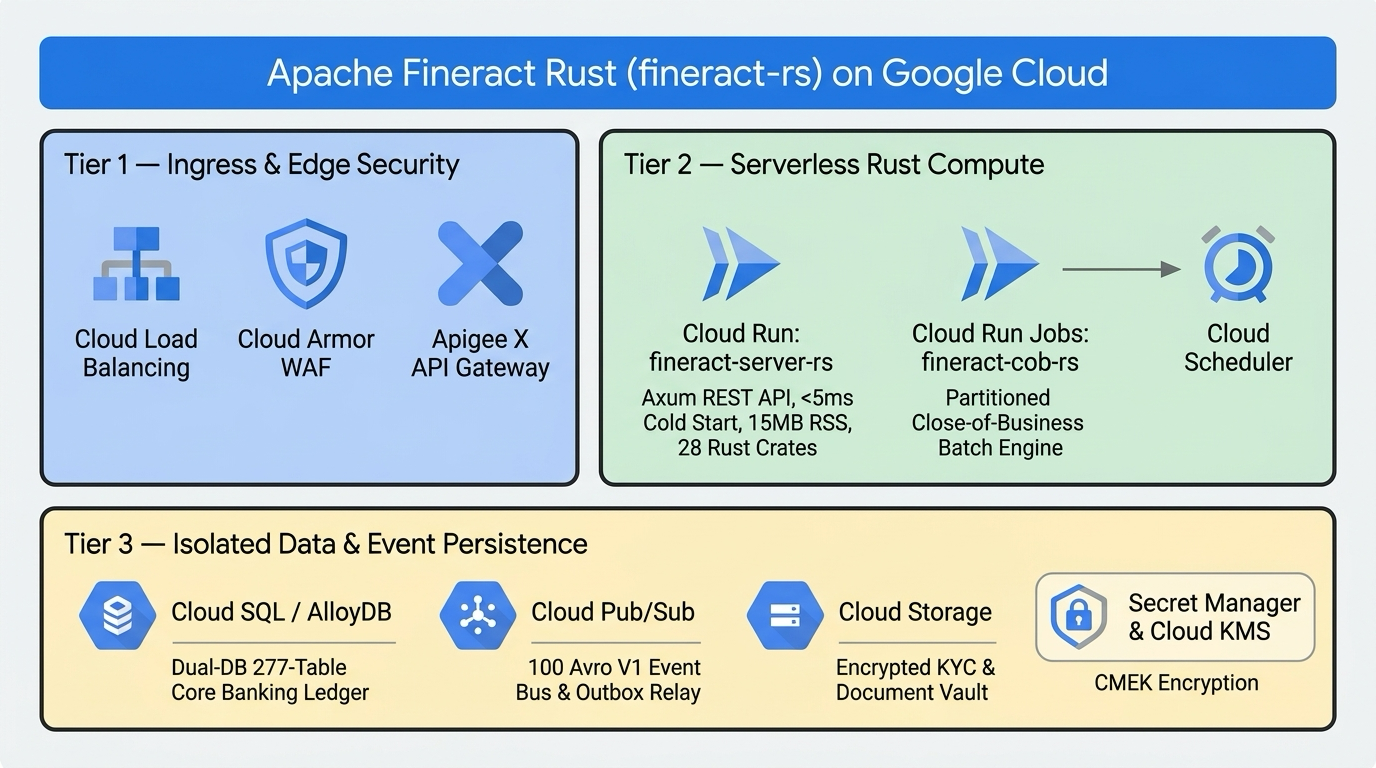
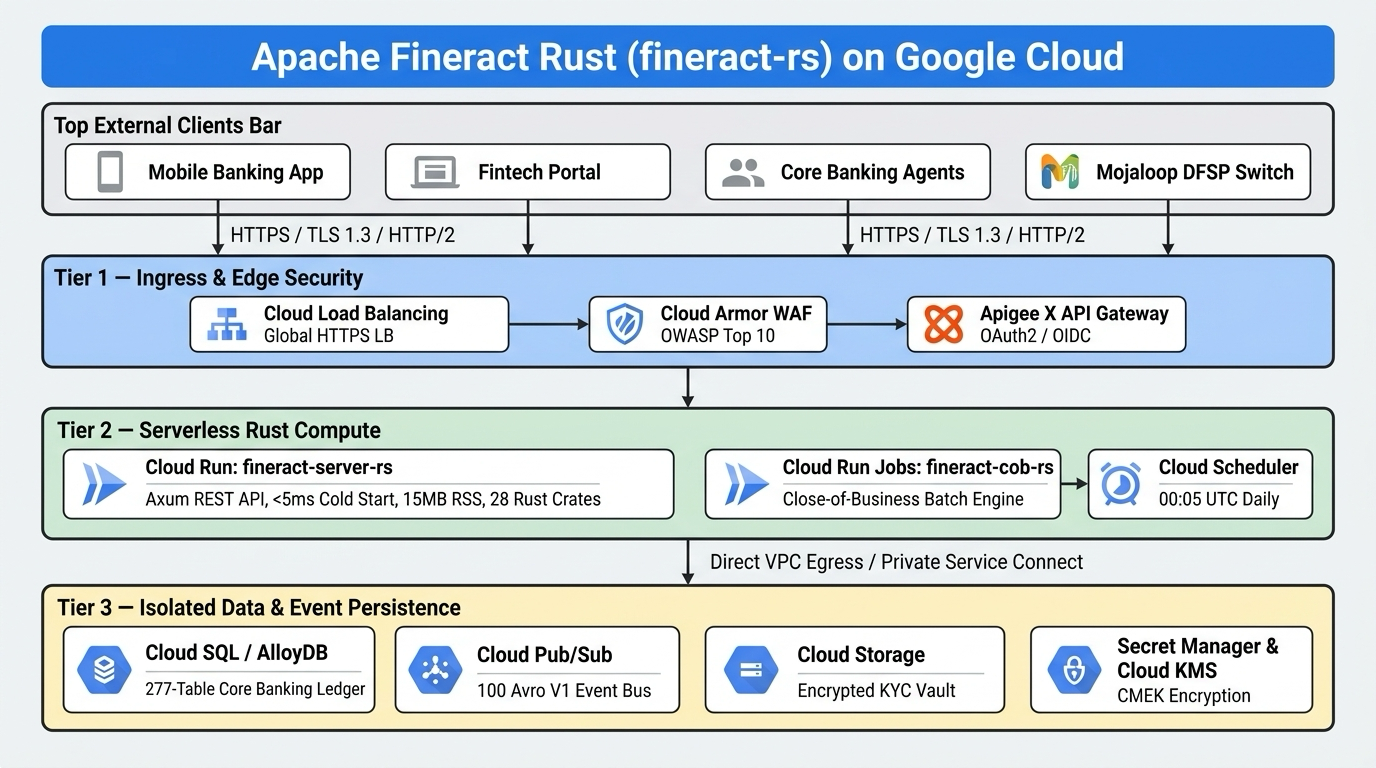
docs: update GCP architecture diagram with External Clients & flow arrows, remove ASCII wireframe, retain only Gemini 4 Argon

diff --git a/README.md b/README.md
@@ -4,7 +4,7 @@ A complete, memory-safe, zero-unsafe **Rust (Edition 2021 / 2024 compatible)** m
 
 > [!IMPORTANT]
 > **Proof of Concept (PoC) Disclaimer & Evaluative Nature**  
-> `fineract-rs` is an experimental architectural Proof of Concept (PoC) created in **Google Antigravity** to evaluate and demonstrate the long-context reasoning (1M-token context window), interactive `/plan` blueprinting, `/goal` autonomous execution, static dependency-graph context packing, and 8-lane `invoke_subagent` Long Decode code-synthesis capabilities of **Gemini 4 Argon** and **Gemini Pro** on a real-world enterprise core banking codebase.
+> `fineract-rs` is an experimental architectural Proof of Concept (PoC) created in **Google Antigravity** to evaluate and demonstrate the long-context reasoning (1M-token context window), interactive `/plan` blueprinting, `/goal` autonomous execution, static dependency-graph context packing, and 8-lane `invoke_subagent` Long Decode code-synthesis capabilities of **Gemini 4 Argon** on a real-world enterprise core banking codebase.
 >
 > **This software is experimental, is NOT production-ready, and is provided "as is" under the MIT License without warranty of any kind.**  
 > While the core financial algorithms, fixed-point `Money` arithmetic (all 8 IEEE 754 / `java.math.RoundingMode` strategies), progressive loan EMI schedules, daily/average-daily savings interest engines, Dual-DB SQL placeholder rewriters (`PostgreSQL` `$1..$N` ↔ `MySQL/MariaDB` `?`), and double-entry general ledger invariants are modeled directly on Apache Fineract's domain specifications:
@@ -24,7 +24,7 @@ A complete, memory-safe, zero-unsafe **Rust (Edition 2021 / 2024 compatible)** m
 
 ### Role of Google Antigravity & Gemini 4 Argon (1M Context + Long Decode)
 
-This migration was planned, architected, and synthesized inside **Google Antigravity** (Google DeepMind's agentic AI coding platform) powered by **Gemini 4 Argon** and **Gemini Pro**, combining frontier long-context reasoning with Antigravity's built-in planning and multi-agent tools:
+This migration was planned, architected, and synthesized inside **Google Antigravity** (Google DeepMind's agentic AI coding platform) powered by **Gemini 4 Argon**, combining frontier long-context reasoning with Antigravity's built-in planning and multi-agent tools:
 
 - **Interactive `/plan` Workflow & Blueprint Artifact Gate**: Initiated via `/plan`, Antigravity audited all `7,134` Java files, `481` Liquibase XML changelogs, and `101` Avro schemas in `apache/fineract` and authored the 7-Wave Modernization Blueprint ([`docs/fineract_rust_modernization_plan.md`](docs/fineract_rust_modernization_plan.md)) with an interactive user approval gate (`RequestFeedback=true`) before writing code.
 - **Structured Architecture Alignment via `ask_question`**: Used Antigravity's `ask_question` tool to lock in key architectural decisions upfront: (1) Full 7-Wave workspace execution, (2) **Dual-Database Support (`PostgreSQL` + `MySQL/MariaDB`)** via runtime `DialectSql`, and (3) **8 Parallel Subagent Decode Lanes** per wave pod.
@@ -136,57 +136,6 @@ flowchart TD
 ## 4. Google Cloud Production Reference Architecture
 
 ![Google Cloud Production Reference Architecture](docs/architecture/fineract-rs-gcp-architecture.png)
-
-```
-┌────────────────────────────────────────────────────────────────────────────────────────────────────────┐
-│                  GOOGLE CLOUD PRODUCTION REFERENCE ARCHITECTURE BLUEPRINT                              │
-│                               Apache Fineract — Rust Edition (fineract-rs)                             │
-└────────────────────────────────────────────────────────────────────────────────────────────────────────┘
-
- ┌──────────────────────────────────────────────────────────────────────────────────────────────────────┐
- │ [1] INGRESS & EDGE SECURITY ZONE (Global Anycast Edge)                                               │
- │                                                                                                      │
- │   Mobile Banking App / Fintech Portal / Core Banking Agents / Mojaloop DFSP Switch                   │
- │                                             │ (HTTPS / TLS 1.3 / HTTP/2)                             │
- │                                             ▼                                                        │
- │   ┌──────────────────────────────────────────────────────────────────────────────────────────────┐   │
- │   │ Google Cloud Load Balancing (External Global HTTPS Load Balancer)                            │   │
- │   │   ├── Google Cloud Armor (WAF: OWASP Top 10, Geo-fencing, Layer-7 Rate Limiting)             │   │
- │   │   └── Apigee X API Gateway / Identity-Aware Proxy (OAuth2 / OIDC & Tenant Header Guard)      │   │
- │   └──────────────────────────────────────────────────────────────────────────────────────────────┘   │
- └───────────────────────────────────────────────────┬──────────────────────────────────────────────────┘
-                                                     │ (Private Internal Google Network Routing)
- ┌───────────────────────────────────────────────────▼──────────────────────────────────────────────────┐
- │ [2] HIGH-PERFORMANCE SERVERLESS COMPUTE LAYER (Cloud Run — Regional Direct VPC Egress)               │
- │                                                                                                      │
- │   ┌──────────────────────────────────────────────────────────────────────────────────────────────┐   │
- │   │ Google Cloud Run: [ fineract-server-rs ] (ReadWrite & ReadOnly API Pods)                     │   │
- │   │   ├── Distroless OCI Image: gcr.io/distroless/cc-debian12:nonroot (~25 MB compressed)        │   │
- │   │   ├── Runtime Characteristics: Cold Start < 5 ms | RSS Memory: ~15 MB | Tokio Async Pool     │   │
- │   │   ├── Endpoints: /fineract-provider/api/v1/* | /actuator/health | /v3/api-docs               │   │
- │   │   └── Zero-Copy 128-Bit Fixed-Point Financial Engine (fineract-money + progressive-loan-rs)  │   │
- │   └──────────────────────────────────────────────────────────────────────────────────────────────┘   │
- │                                                   ▲                                                  │
- │   ┌───────────────────────────────────────────────┴──────────────────────────────────────────────┐   │
- │   │ Google Cloud Run Jobs: [ fineract-cob-rs ] (Nightly Close-of-Business Partitioned Workers)   │   │
- │   │   ├── Triggered daily at 00:05 UTC by Google Cloud Scheduler via OIDC Service Account        │   │
- │   │   └── Partitioned Tokio Worker Pool + m_loan_account_locks + Transactional Outbox Relay      │   │
- │   └──────────────────────────────────────────────────────────────────────────────────────────────┘   │
- └───────────────────────────────────────────────────┬──────────────────────────────────────────────────┘
-                                                     │ (Direct VPC Egress / Private Service Connect)
- ┌───────────────────────────────────────────────────▼──────────────────────────────────────────────────┐
- │ [3] ISOLATED PERSISTENCE & MESSAGING ZONE (Private Service Connect / CMEK KMS Encrypted)             │
- │                                                                                                      │
- │   ┌───────────────────────────┐  ┌───────────────────────────┐  ┌────────────────────────────────┐   │
- │   │ Cloud SQL / AlloyDB       │  │ Google Cloud Pub/Sub      │  │ Google Cloud Storage (GCS)     │   │
- │   │ (PostgreSQL 16 or MySQL)  │  │ (Avro V1 Event Bus)       │  │ (Document & KYC Vault)         │   │
- │   │                           │  │                           │  │                                │   │
- │   │ • 277-Table Core Schema   │  │ • 100 Avro V1 Schemas     │  │ • Client KYC & Loan Documents  │   │
- │   │ • Double-Entry GL Journal │  │ • MessageV1 Envelope      │  │ • SHA-256 Content Addressed    │   │
- │   │ • Dual-DB DialectSql      │  │ • m_external_event Outbox │  │ • CMEK KMS Encrypted           │   │
- │   └───────────────────────────┘  └───────────────────────────┘  └────────────────────────────────┘   │
- └──────────────────────────────────────────────────────────────────────────────────────────────────────┘
-```
 
 ---
 

diff --git a/CASE_STUDY_AND_MIGRATION_LOG.md b/CASE_STUDY_AND_MIGRATION_LOG.md
@@ -3,7 +3,7 @@
 **Project:** `fineract-rs` (Apache Fineract Java 21 / Spring Boot 3.x → Rust 28-Crate Workspace)  
 **Original Upstream Project:** [Apache Fineract](https://fineract.apache.org/) ([`apache/fineract`](https://github.com/apache/fineract))  
 **Agentic Coding Platform:** **Google Antigravity** (using `/plan`, `/goal`, `ask_question`, `invoke_subagent`, `manage_subagents`, and Artifact review gating)  
-**Models Evaluated:** **Gemini 4 Argon** (1M-Token Context Window + Long Decode) & **Gemini Pro**  
+**Model Evaluated:** **Gemini 4 Argon** (1M-Token Context Window + Long Decode)  
 **License:** MIT License ([`LICENSE`](LICENSE)) with Apache Fineract upstream attribution ([`NOTICE`](NOTICE))
 
 > [!IMPORTANT]
